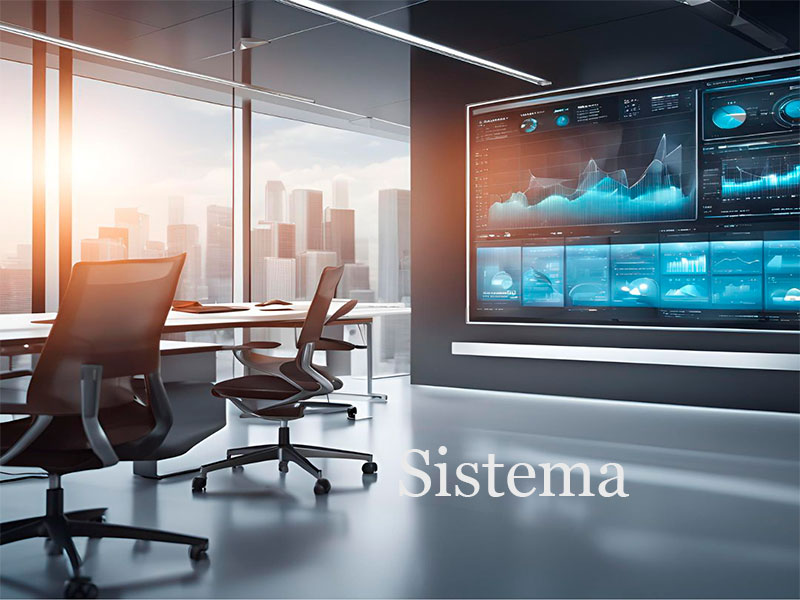
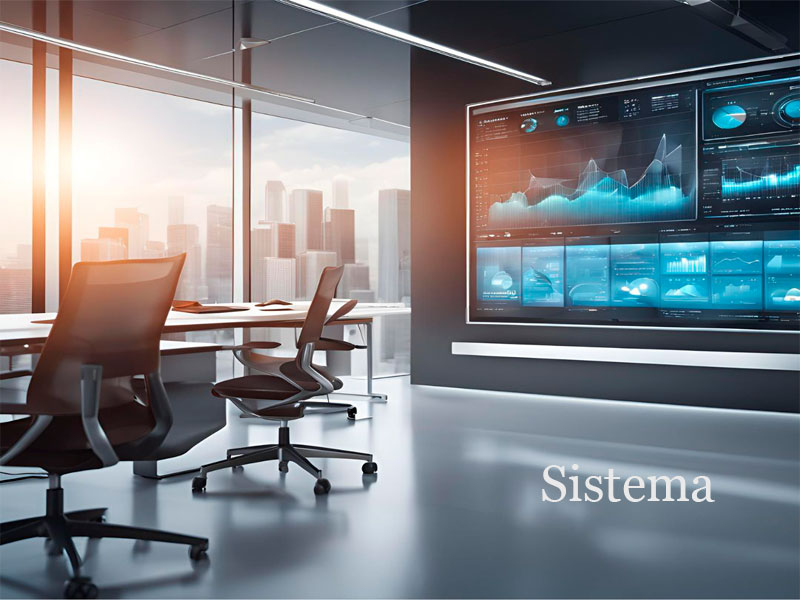
Atualização das imagens do carousel

Changed region(s): [[0.5, 0.75, 0.9062, 0.84]]

diff --git a/index.html b/index.html
@@ -80,13 +80,13 @@
 
                     <div class="slider">
 
-                        <img src="./img/Gear---tablet.jpg"
+                        <img src="./img/Gear---tablet1.jpg"
                             alt="Imagem com um executivo segurando um tablet e saindo engranagens que representa o engrenar do negócio">
 
                     </div>
 
                     <div class="slider">
-                        <img src="./img/AHM.jpg" alt="Imagem de aperto de mão entre o homem e a máquina">
+                        <img src="./img/AHM1.jpg" alt="Imagem de aperto de mão entre o homem e a máquina">
                     </div>
                     <!-- End of slide images  -->
 
